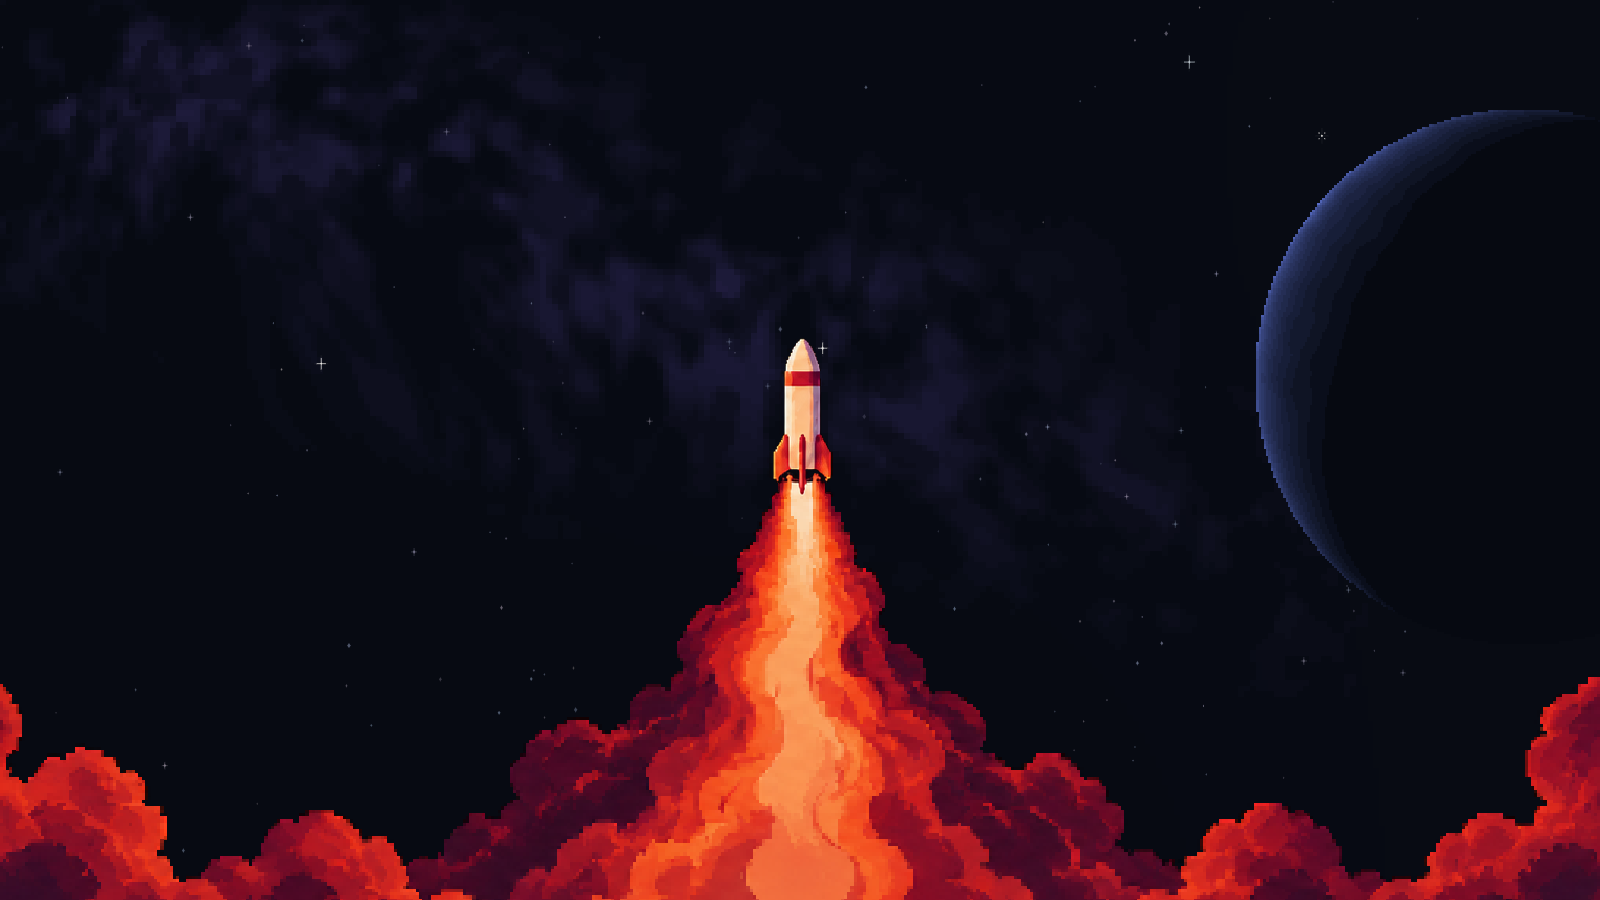
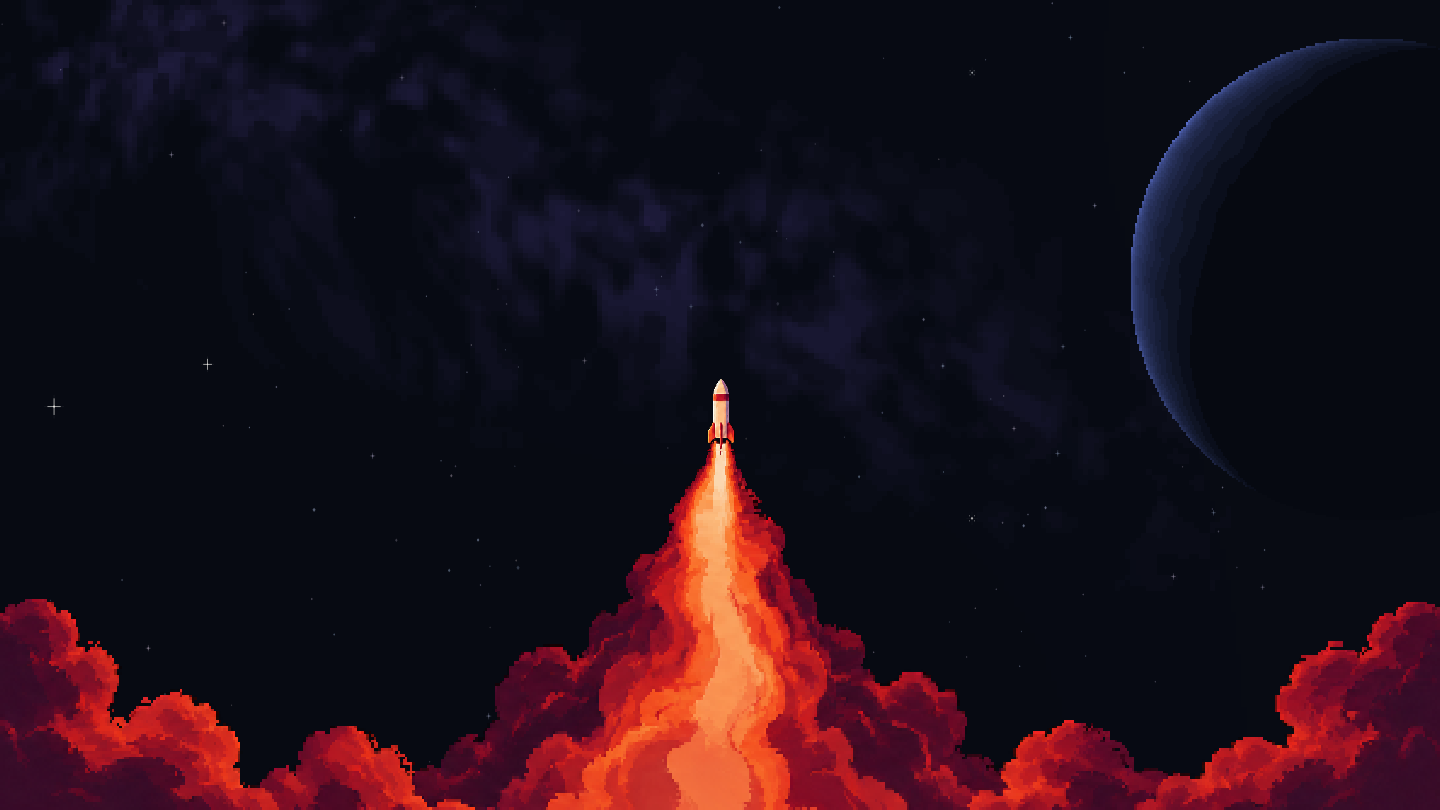
Publish Daydream Gallery from 12ca4d74c7ae

diff --git a/worlds/quiet-ascent/source/scene.js b/worlds/quiet-ascent/source/scene.js
@@ -51,7 +51,8 @@
   const meteorProfile=deepFreeze(Object.assign({firstAt:8.2,yMin:.08,yMax:.20},mergeSelected('meteor')));
   const starProfile=deepFreeze(mergeSelected('stars'));
   const CONFIG=deepFreeze({
-    seed:19690917,maxFrameRate:60,maxCanvasPixels:1600*1100,minStageVisibleHeight:858,
+    seed:19690917,maxFrameRate:60,maxCanvasPixels:1600*1100,minStageVisibleHeight:858,foregroundScale:.5,portraitForegroundScale:.36,
+    stageVerticalOffset:.03,sideBankScale:.85,
     atmosphere:setting('atmosphere',1,0,2),dust:setting('dust',1,0,2),
     exhaust:setting('exhaust',1,0,1.8),
     twinkle:setting('twinkle',1,0,2),starSpeed:setting('starSpeed',1,0,2),
@@ -66,7 +67,7 @@
   let sceneIndex=0,sceneSerial=0,sceneSeed=CONFIG.seed;
   let ready=false,disposed=false,paused=false,failed=false,raf=0,clock=0;
   let lastTick=null,lastPaint=-Infinity,renderedFrames=0,renderMs=0;
-  let camera=view(W,H,W,H),stage=stageView(W,H,W,H,CONFIG.minStageVisibleHeight);
+  let camera=view(W,H,W,H),stage=stageView(W,H,W,H,CONFIG.minStageVisibleHeight,CONFIG.foregroundScale,CONFIG.stageVerticalOffset);
   let reducedMotion=window.matchMedia('(prefers-reduced-motion: reduce)').matches;
   const motionPreference=window.matchMedia('(prefers-reduced-motion: reduce)');
 
@@ -76,9 +77,11 @@
   let sourcePixels,sourceInterior,lastFire=-Infinity;
   const flowX=new Float32Array(GX*GY),flowY=new Float32Array(GX*GY);
   const xMap=new Uint16Array(FW),xWeight=new Float32Array(FW);
+  const sideBankWeight=new Float32Array(FW);
   const yMap=new Uint16Array(FH),yWeight=new Float32Array(FH);
   for(let x=0;x<FW;x++){
     const g=x/(FW-1)*(GX-1);xMap[x]=Math.min(GX-2,Math.floor(g));xWeight[x]=g-xMap[x];
+    sideBankWeight[x]=smooth(.35,.82,Math.abs(2*x/(FW-1)-1));
   }
   for(let y=0;y<FH;y++){
     const g=y/(FH-1)*(GY-1);yMap[y]=Math.min(GY-2,Math.floor(g));yWeight[y]=g-yMap[y];
@@ -92,12 +95,14 @@
     const dpr=Math.min(window.devicePixelRatio||1,1.5,Math.sqrt(CONFIG.maxCanvasPixels/(w*h)));
     canvas.width=Math.max(1,Math.round(w*dpr));canvas.height=Math.max(1,Math.round(h*dpr));
     camera=view(canvas.width,canvas.height,W,H);
-    stage=stageView(canvas.width,canvas.height,W,H,CONFIG.minStageVisibleHeight);
+    stage=stageView(canvas.width,canvas.height,W,H,CONFIG.minStageVisibleHeight,
+      mix(CONFIG.foregroundScale,CONFIG.portraitForegroundScale,camera.reflow),CONFIG.stageVerticalOffset);
     if(ready)render(clock,true);
   }
 
   function renderExhaust(t){
     const strength=CONFIG.exhaust*(reducedMotion?.3:1);
+    const bankReduction=(1-CONFIG.sideBankScale)*(1-camera.reflow);
     // Pin the entire injection zone, then gradually open the field downstream.
     // Curl displacements keep neighboring contours related instead of independently jittering.
     for(let gy=0;gy<GY;gy++){
@@ -129,11 +134,15 @@
         const p=gRow+xMap[x],wx=xWeight[x];
         const dx=mix(mix(flowX[p],flowX[p+1],wx),mix(flowX[p+GX],flowX[p+GX+1],wx),wy);
         const dy=mix(mix(flowY[p],flowY[p+1],wx),mix(flowY[p+GX],flowY[p+GX+1],wx),wy);
-        const sx=clamp(Math.round(x+dx),0,FW-1),sy=clamp(Math.round(y+dy),0,FH-1);
-        let value=sourcePixels[sy*FW+sx];
+        // Lower only the outer desktop fire banks, with a smooth transition to the
+        // unchanged central plume. Portrait framing keeps its existing silhouette.
+        const baseY=(FH-1)-(FH-1-y)/(1-bankReduction*sideBankWeight[x]);
+        const sx=clamp(Math.round(x+dx),0,FW-1),sy=clamp(Math.round(baseY+dy),0,FH-1);
+        const unmoved=clamp(Math.round(baseY),0,FH-1)*FW+x;
+        let value=baseY<0?0:sourcePixels[sy*FW+sx];
         // Preserve opaque interiors when a displaced lookup crosses transparency; only the
         // actual silhouette edge is allowed to open and close. This prevents dark pinholes.
-        if(sourceInterior[row+x]&&(value>>>24)===0)value=sourcePixels[row+x];
+        if(baseY>=0&&sourceInterior[unmoved]&&(value>>>24)===0)value=sourcePixels[unmoved];
         firePixels[row+x]=value;
       }
     }
@@ -173,7 +182,7 @@
     ctx.globalAlpha=1;
     // Keep the first plume row registered to the nozzle. Lower rows spread
     // beyond both viewport sides, while the source's final row stays below it.
-    const rowHeight=(H-FIRE_TOP+overscan)/FH;
+    const rowHeight=(stage.top+stage.height-FIRE_TOP+overscan)/FH;
     for(let row=0;row<FH;row++){
       const spread=smooth(0,.18,row/FH);
       const width=W+(expandedWidth-W)*spread;

diff --git a/worlds/quiet-ascent/source/math.js b/worlds/quiet-ascent/source/math.js
@@ -83,15 +83,16 @@
       // Only the background layout reflows on a narrow viewport. The rocket never stretches.
       reflow:smooth(1.30,.76,width/height)};
   }
-  function stageView(width,height,worldW=1536,worldH=1024,minVisibleHeight=920) {
+  function stageView(width,height,worldW=1536,worldH=1024,minVisibleHeight=920,contentScale=1,verticalOffset=0) {
     // Keep the complete lower exhaust visible. On wide displays, cap the vertical crop and
     // leave side space for low fire-bank extensions instead of pushing the rocket too high.
     const coverScale=Math.max(width/worldW,height/worldH);
     const coverVisibleHeight=height/coverScale;
     const visibleHeight=clamp(Math.max(coverVisibleHeight,minVisibleHeight),1,worldH);
-    const scale=height/visibleHeight;
-    const x=(width-worldW*scale)/2,y=height-worldH*scale;
-    return {scale,x,y,left:-x/scale,top:-y/scale,width:width/scale,height:visibleHeight,
+    const baseScale=height/visibleHeight,scale=baseScale*contentScale;
+    // Shrink the foreground uniformly around its centre, preserving the rocket's placement.
+    const x=(width-worldW*scale)/2,y=height-worldH*baseScale+worldH*(baseScale-scale)/2+height*verticalOffset;
+    return {scale,x,y,left:-x/scale,top:-y/scale,width:width/scale,height:height/scale,
       sideFill:Math.max(0,x),bottom:y+worldH*scale};
   }
   return Object.freeze({TAU,clamp,mix,smooth,mod,random,noiseField,
